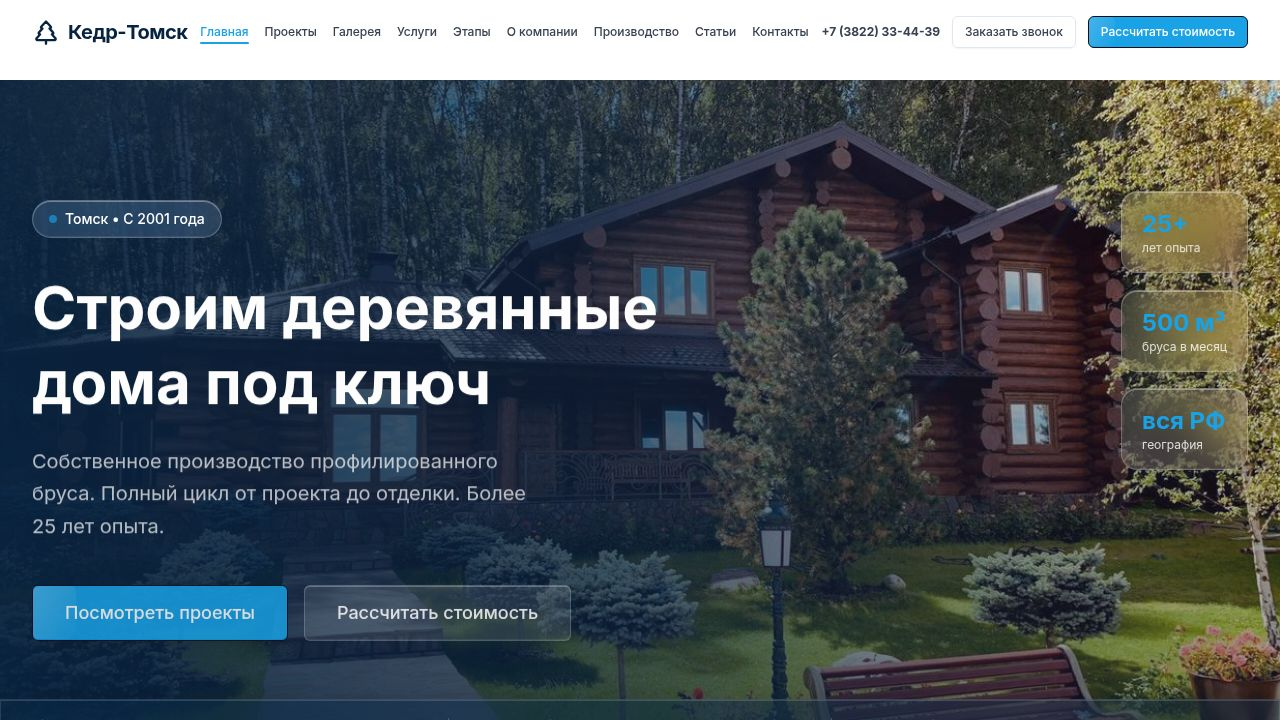
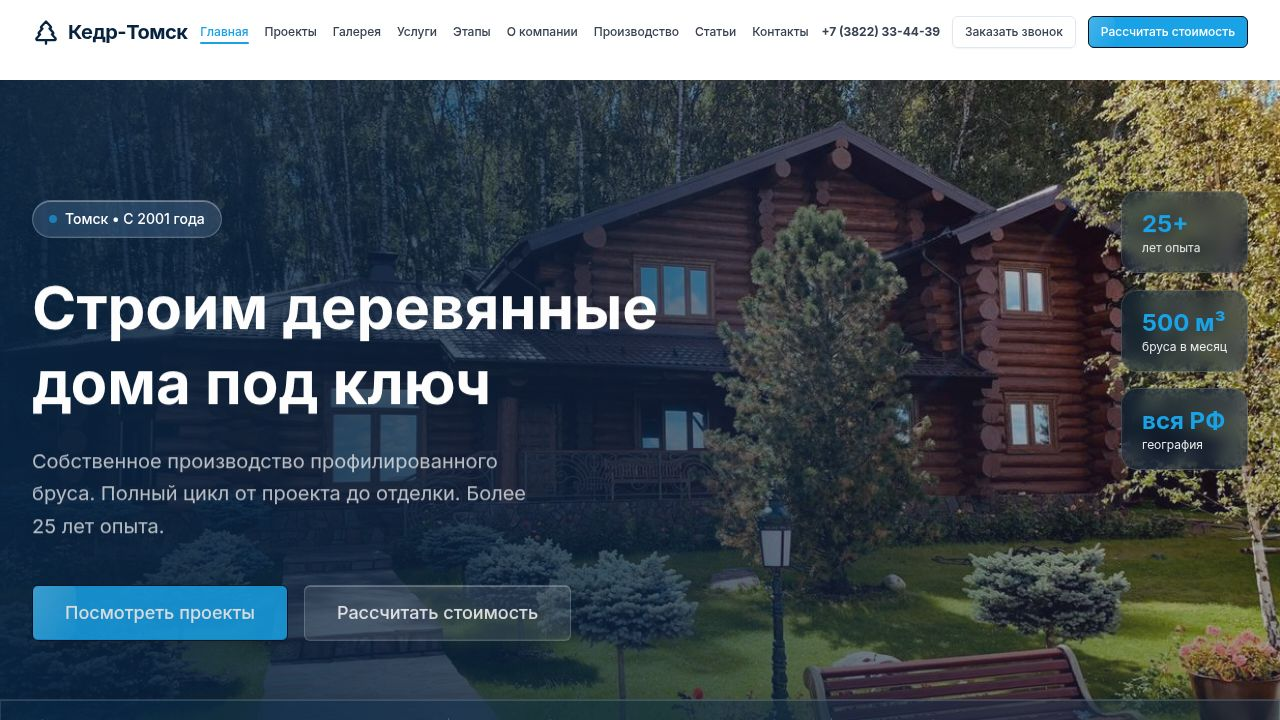
Update contact buttons and make informational blocks more translucent
Replaces the "M" character with a Max messenger icon in the contact section and adjusts the opacity of hero stat blocks for improved visual clarity.

Replit-Commit-Author: Agent
Replit-Commit-Session-Id: cf605749-9d69-4fb2-b5af-2ab543a2885e
Replit-Commit-Checkpoint-Type: full_checkpoint
Replit-Commit-Event-Id: c6731ea9-0e79-48e7-94e0-8184e346ac55
Replit-Commit-Screenshot-Url: https://storage.googleapis.com/screenshot-production-us-central1/2fc0f0c6-cf29-49cc-a4fe-30d5e5f969ab/cf605749-9d69-4fb2-b5af-2ab543a2885e/fKJK3iq
Replit-Helium-Checkpoint-Created: true

Changed region(s): [[0.875, 0.2444, 1.0, 0.6722]]

diff --git a/artifacts/kedr-tomsk/src/pages/Home.tsx b/artifacts/kedr-tomsk/src/pages/Home.tsx
@@ -142,19 +142,19 @@ export default function Home() {
           <div className="absolute inset-0 bg-gradient-to-t from-primary/40 to-transparent"></div>
         </div>
 
-        {/* Floating solid badges — top right */}
+        {/* Floating semi-transparent badges — top right */}
         <div className="absolute top-28 right-8 z-20 hidden xl:flex flex-col gap-4">
-          <div className="bg-primary/85 backdrop-blur-md border border-white/25 rounded-2xl px-5 py-4 text-white float-slow shadow-lg">
+          <div className="bg-primary/45 backdrop-blur-sm border border-white/15 rounded-2xl px-5 py-4 text-white float-slow">
             <div className="text-2xl font-bold text-accent">25+</div>
-            <div className="text-xs text-white">лет опыта</div>
+            <div className="text-xs text-white/90">лет опыта</div>
           </div>
-          <div className="bg-primary/85 backdrop-blur-md border border-white/25 rounded-2xl px-5 py-4 text-white float-mid shadow-lg">
+          <div className="bg-primary/45 backdrop-blur-sm border border-white/15 rounded-2xl px-5 py-4 text-white float-mid">
             <div className="text-2xl font-bold text-accent">500 м³</div>
-            <div className="text-xs text-white">бруса в месяц</div>
+            <div className="text-xs text-white/90">бруса в месяц</div>
           </div>
-          <div className="bg-primary/85 backdrop-blur-md border border-white/25 rounded-2xl px-5 py-4 text-white float-fast shadow-lg">
+          <div className="bg-primary/45 backdrop-blur-sm border border-white/15 rounded-2xl px-5 py-4 text-white float-fast">
             <div className="text-2xl font-bold text-accent">вся РФ</div>
-            <div className="text-xs text-white">география</div>
+            <div className="text-xs text-white/90">география</div>
           </div>
         </div>
 

diff --git a/artifacts/kedr-tomsk/src/components/Layout.tsx b/artifacts/kedr-tomsk/src/components/Layout.tsx
@@ -40,9 +40,14 @@ export default function Layout({ children }: LayoutProps) {
           target="_blank"
           rel="noopener noreferrer"
           aria-label="Написать в Max"
-          className="group flex items-center gap-0 hover:gap-3 overflow-hidden w-12 hover:w-36 h-12 bg-[#0077FF] text-white rounded-full shadow-lg hover:shadow-xl transition-all duration-300 px-3"
+          className="group flex items-center gap-0 hover:gap-3 overflow-hidden w-12 hover:w-36 h-12 text-white rounded-full shadow-lg hover:shadow-xl transition-all duration-300 px-1.5"
+          style={{ background: "linear-gradient(135deg, #5B6CF5 0%, #7B3FE4 100%)", opacity: 0.75 }}
+          onMouseEnter={e => (e.currentTarget.style.opacity = "1")}
+          onMouseLeave={e => (e.currentTarget.style.opacity = "0.75")}
         >
-          <span className="shrink-0 font-black text-lg leading-none" style={{ fontFamily: "sans-serif" }}>M</span>
+          <span className="shrink-0 w-9 h-9 rounded-full overflow-hidden flex items-center justify-center">
+            <img src="/max-icon.png" alt="Max" className="w-9 h-9 object-cover" />
+          </span>
           <span className="text-sm font-semibold whitespace-nowrap opacity-0 group-hover:opacity-100 transition-opacity duration-200 ml-1">
             Max
           </span>